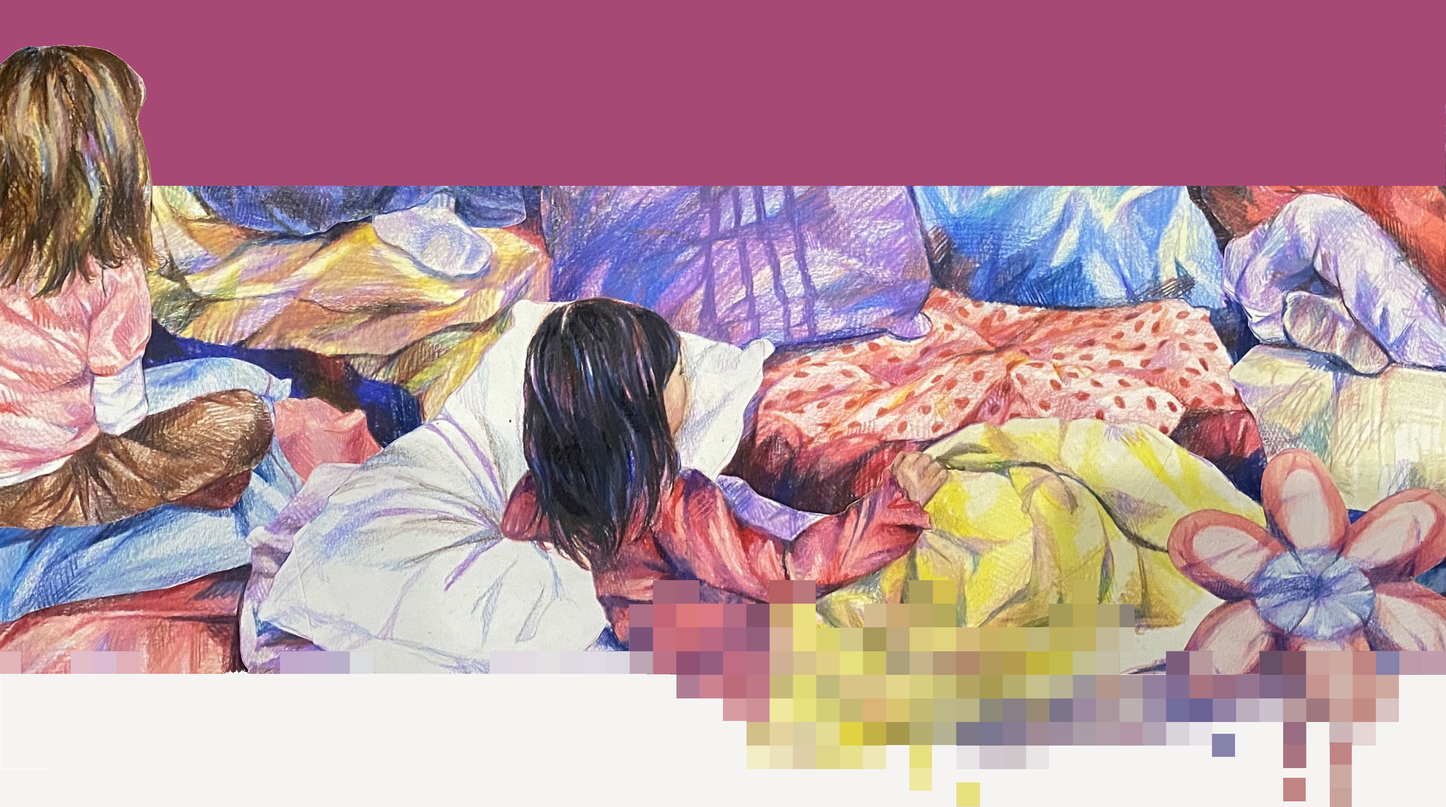
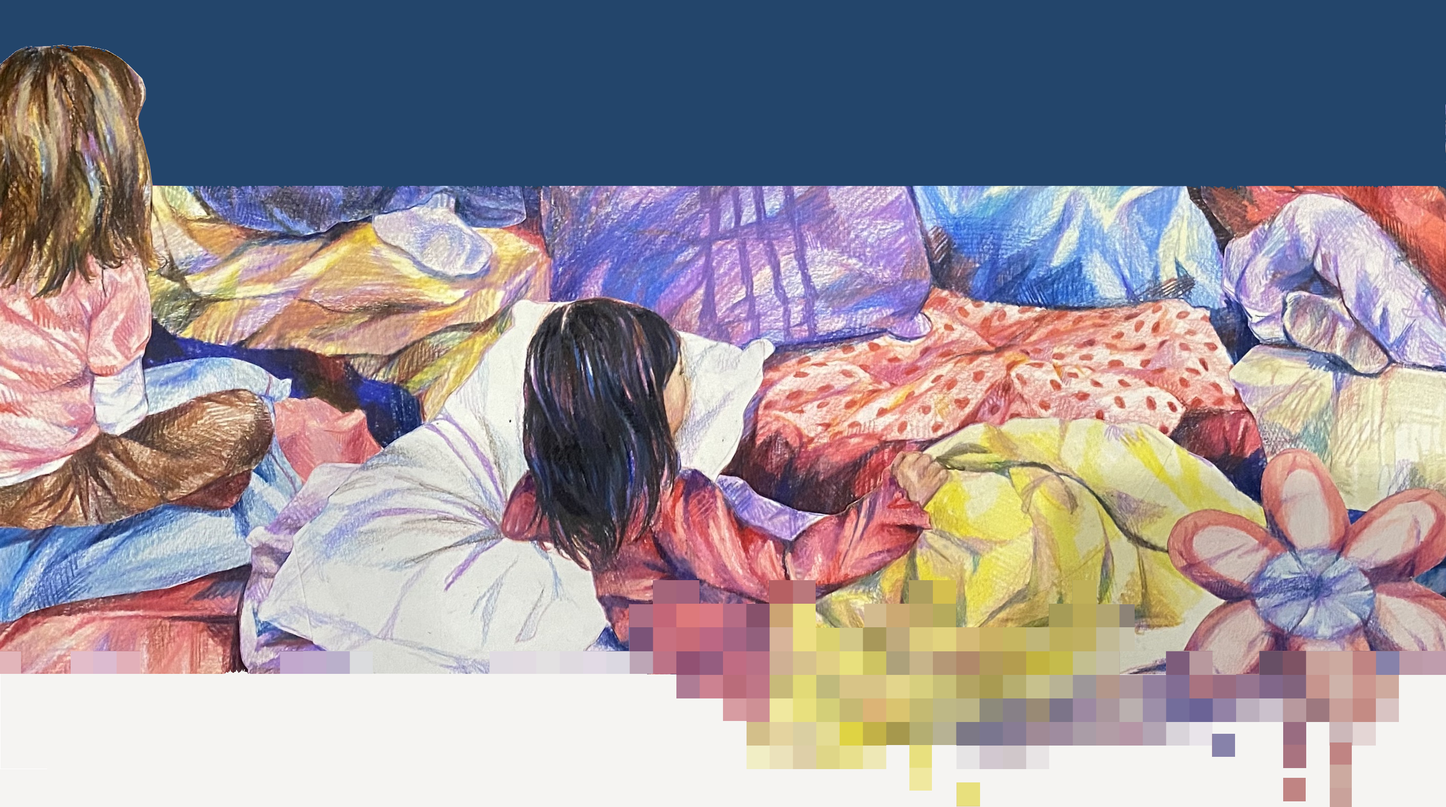
Change visual look! Get rid of original header image, replace it with color grid animation (grid.js)

Changed region(s): [[0.0, 0.0, 1.0, 0.2487]]

diff --git a/style.css b/style.css
@@ -9,13 +9,13 @@ body {
 }
 
 body#home-page {
-    background-color: #b63f75; 
-    color: #f6f4f2;
+    background-color: #f6f4f2; 
+    color: #401103;
 }
 
 body.work-pages {
     background-color: #f6f4f2;
-    color: #b63f75;
+    color: #23446B;
 }
 
 h1, h3 {
@@ -23,14 +23,14 @@ h1, h3 {
 }
 
 a { 
-    color:#f6f4f2;
+    color:#401103;
     font-size: 1.1vw;
     margin: 5px;
  }
 
 /*Horizontal line for contact section*/
 hr { 
-    border-top: 1px solid #f6f4f2; 
+    border-top: 1px solid #401103; 
 }
 
 /*---- NAVBAR ----*/
@@ -40,24 +40,22 @@ hr {
     left: 0;
     width: 100%;
     z-index: 1000;
-    background-color: #b63f75;
-    padding-bottom: 4px;
-    border-top: 1px solid #f6f4f2;
-    border-bottom: 1px solid #f6f4f2;
-
+    background-color: #f6f4f2 ;
+    border-top: 1px solid #401103;
+    border-bottom: 1px solid #401103;
 }
 
 .top-bar a {
     font-size: 1rem;
-    color: #f6f4f2;
+    color: #401103;
     text-decoration: none;
 }
 
 .light-nav {
     background-color: #f6f4f2;
-    border-top: 1px solid #401103;
-    border-bottom: 1px solid #401103;
-}
+/*     border-top: 1px solid #111;
+    border-bottom: 1px solid #111;
+*/}
 
 .light-nav a{
     color: #401103;
@@ -85,9 +83,10 @@ hr {
 
 .title {
     display: block;
-    margin: 80px auto 0;
+    margin: 35px auto 0;
     position: relative;
     z-index: 2;
+    padding-left: 15px;
 }
 
 .header-image {
@@ -97,6 +96,24 @@ hr {
     margin-top: -17.1%;
     position: relative;
     z-index: 1;
+}
+
+/*---- HOME ANIMATED GRID ----*/
+.tile-grid {
+    position: relative;
+    box-sizing: border-box;
+    height: 600px;
+    margin: 5px 25px;  
+    background-color: #f6f4f2;
+    overflow: hidden;
+    display: grid;
+    grid-template-columns: repeat(var(--columns), 1fr);
+    grid-template-rows: repeat(var(--rows), 1fr);
+}
+
+.grid-tile {
+    background: var(--color);
+    box-shadow: inset 0 0 0 2px #f6f4f2;
 }
 
 /*---- ABOUT SECTION ----*/
@@ -140,7 +157,7 @@ hr {
 
 .selected-work-section {
     background-color: #f6f4f2;
-    padding: 80px 50px 100px;
+    padding: 80px 50px 200px;
 }
 
 .selected-work-heading {
@@ -189,7 +206,7 @@ hr {
 }
 
 .sw-card:hover .sw-title {
-    color: #b63f75;
+    color: #bd4e73;
 }
 
 .sw-desc {
@@ -221,7 +238,8 @@ hr {
 }
 
 .view-all-link:hover {
-    background-color: #401103;
+    background-color: #bd4e73;
+    border-color: #bd4e73;
     color: white;
 }
 
@@ -357,17 +375,17 @@ hr {
     display: inline-block;
     font-size: 0.9rem;
     font-weight: 600;
-    color: #b63f75;
+    color: #23446B;
     text-decoration: none;
     padding: 10px 20px;
-    border: 2px solid #b63f75;
+    border: 2px solid #23446B;
     border-radius: 6px;
     margin-bottom: 1.5rem;
     transition: all 0.2s ease;
 }
 
 .work-page-text a:hover {
-    background-color: #b63f75;
+    background-color: #23446B;
     color: white;
 }
 
@@ -478,7 +496,7 @@ hr {
     font-family: 'Playfair Display', serif;
     font-size: 4.5rem;
     line-height: 1;
-    color: #b63f75;
+    color: #23446B;
 }
 
 .design-process h5 {
@@ -512,7 +530,7 @@ hr {
 }
 
 .next, .prev {
-    color: #b63f75;
+    color: #23446B;
     text-decoration: none;
     font-size: 1rem;
     padding: 6px 10px;

diff --git a/js/grid.js b/js/grid.js
@@ -1,0 +1,77 @@
+/* ================== SETTINGS ================== */
+
+const COLORS = [
+  '#a6c0e5', '#96b8e7', '#849acc', '#c09fa6', '#c3b3a8', '#c8c1b0',
+  '#c37e83', '#bf7d6d', '#afa56a', '#9c8e69', '#c0b270', '#c28f70',
+  '#c48d7e', '#c69a90', '#9f726d', '#aa8991', '#af93b9', '#ab88cc',
+  '#bc9cd1', '#e2babb', '#bba6de', '#c1b88f', '#b49798', '#a498ac',
+  '#6182d1', '#779edd', '#b1c5dd', '#8c758c', '#86566e', '#986e7c',
+  '#bc6784', '#a56482', '#95607e', '#e6cf8b', '#ebc197', '#e7aba3',
+  '#e6a48c', '#e1d27d', '#d5ba77', '#a185b5', '#b8aa83', '#c0b062'
+];
+
+const TILE_SIZE = 80; // Bigger = fewer tiles
+
+const STEP = 120; // Bigger = slower wave
+const JITTER = 40; // So blocks disappear one at a time
+const BLOCK_FADE = 140; // how long each single block takes to change
+const PAUSE = 200;  // ms to wait before the next wave
+
+/* ================== GRID + ANIMATION ================== */
+const wrapper = document.getElementById('tiles');
+
+if (wrapper) {
+  const reduceMotion = window.matchMedia('(prefers-reduced-motion: reduce)').matches;
+  let columns = 0, rows = 0;
+  let toWhite = false;
+  let running = null;
+  let timer = null;
+  let lastWidth = 0;
+
+  const randomTileColor = () => COLORS[Math.floor(Math.random() * COLORS.length)];
+
+  function createGrid() {
+    clearTimeout(timer);
+    if (running) running.pause();
+    wrapper.innerHTML = '';
+
+    columns = Math.max(1, Math.ceil(wrapper.clientWidth / TILE_SIZE));
+    rows = Math.max(1, Math.ceil(wrapper.clientHeight / TILE_SIZE));
+    wrapper.style.setProperty('--columns', columns);
+    wrapper.style.setProperty('--rows', rows);
+
+    for (let i = 0; i < columns * rows; i++) {
+      const tile = document.createElement('div');
+      tile.className = 'grid-tile';
+      tile.style.setProperty('--color', randomTileColor());
+      wrapper.appendChild(tile);
+    }
+
+    toWhite = false;
+    if (!reduceMotion) waveLoop();
+  }
+
+  function waveLoop() {
+    toWhite = !toWhite;
+    const stagger = anime.stagger(STEP, { grid: [columns, rows], from: 'first' });
+
+    running = anime({
+      targets: '#tiles .grid-tile',
+      opacity: toWhite ? 0 : 1,       // 0 = white (background shows through), 1 = back to color
+      easing: 'linear',
+      duration: BLOCK_FADE,
+      delay: (el, i, total) => stagger(el, i, total) + Math.random() * JITTER,
+      complete: () => { timer = setTimeout(waveLoop, PAUSE); }
+    });
+  }
+
+  createGrid();
+
+  lastWidth = wrapper.clientWidth;
+  new ResizeObserver(() => {
+    if (wrapper.clientWidth !== lastWidth) {
+      lastWidth = wrapper.clientWidth;
+      createGrid();
+    }
+  }).observe(wrapper);
+}

diff --git a/Index.html b/Index.html
@@ -16,7 +16,7 @@
 
     <div class="home">
         <img src="images/title1.svg" class="title">
-        <img src="images/header4.JPG" class="header-image" alt="Header image">
+        <div id="tiles" class="tile-grid"></div>
     </div>
 
     <main>                
@@ -63,7 +63,7 @@
 
         <hr>
 
-        <section id="contact_id" class="contact-section"> <!-- Check this div_id for all-->
+        <section id="contact_id" class="contact-section">
             <div class="contact-content">
                 <h3 class="contact">GET IN TOUCH</h3>
                 
@@ -83,6 +83,8 @@
         </section>     
     </main>
 
+    <script src="https://cdnjs.cloudflare.com/ajax/libs/animejs/3.2.1/anime.min.js"></script>
+    <script src="js/grid.js"></script>
     <script src="js/nav.js"></script>
 </body>
 </html>
